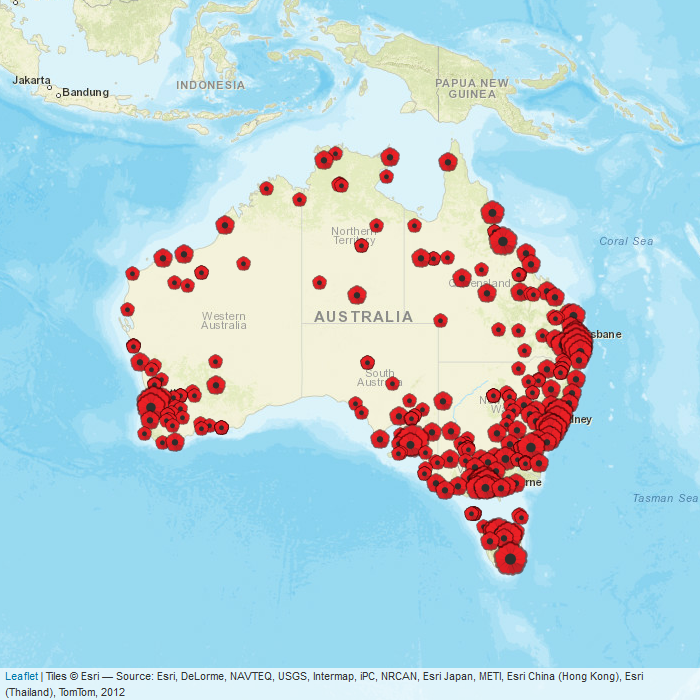
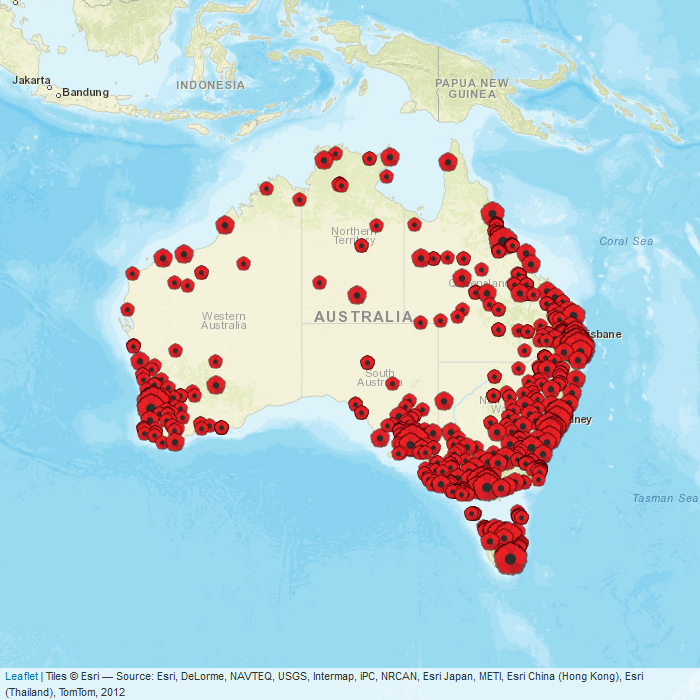
'auto-commit'

diff --git a/docs/counter.html b/docs/counter.html
@@ -20,5 +20,5 @@ body {
 </head>
 
 <body>
-14,635
+14,687
 </body>
